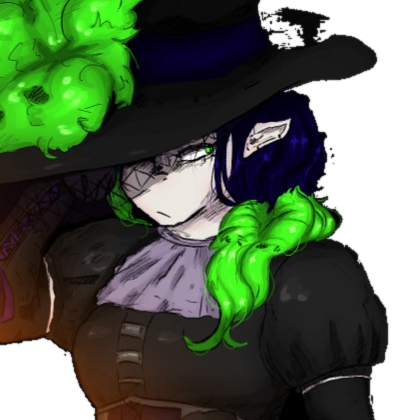
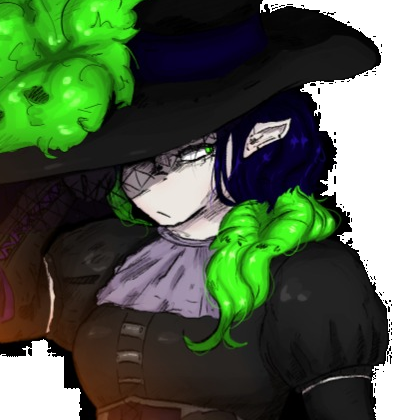
fix(personagens): eliminar 100% dos pixels semi-transparentes de Minerva e adicionar cache-buster para forcar atualizacao

diff --git a/js/mesa.js b/js/mesa.js
@@ -839,8 +839,8 @@ const MesaApp = {
       altura: '1,78m',
       raca: 'Vampira',
       arquetipo: 'Nerd',
-      imagem: 'assets/minerva.png',
-      avatar: 'assets/minerva_avatar.png',
+      imagem: 'assets/minerva.png?v=2',
+      avatar: 'assets/minerva_avatar.png?v=2',
       hp: 12, hpMax: 12,
       pe: 10, peMax: 10,
       st: 0, stMax: 40,
@@ -1161,8 +1161,8 @@ const MesaApp = {
           }
 
           if (p.token === 'N3L8' || p.slot === 2) {
-            p.imagem = 'assets/minerva.png';
-            p.avatar = 'assets/minerva_avatar.png';
+            p.imagem = 'assets/minerva.png?v=2';
+            p.avatar = 'assets/minerva_avatar.png?v=2';
           }
 
           if (p.token === 'R5K1' || p.slot === 3) {
@@ -1205,7 +1205,7 @@ const MesaApp = {
       if (!this.state.players[1]) {
         this.state.players[1] = {
           id: 3, slot: 2, token: 'N3L8', nome: 'Sanguiminerva "Minerva" Qamari Von Adams', idade: '18 anos', altura: '1,78m', raca: 'Vampira', arquetipo: 'Nerd',
-          imagem: 'assets/minerva.png', avatar: 'assets/minerva_avatar.png',
+          imagem: 'assets/minerva.png?v=2', avatar: 'assets/minerva_avatar.png?v=2',
           hp: 12, hpMax: 12, pe: 10, peMax: 10, st: 0, stMax: 40, stressPoints: 0, stressPointsMax: 6,
           atributos: { 'Saúde': 'd8', 'Vigor': 'd12', 'Força': 'd4', 'Mente': 'd16' },
           bonus: [{ origem: 'Raça (Vampira)', desc: '+d4 em testes de Mente e Visão no Escuro (5B)' }, { origem: 'Arquétipo (Nerd)', desc: '+d4 em Testes de Mente' }],

diff --git a/mesa.html b/mesa.html
@@ -8,9 +8,9 @@
   <meta http-equiv="Expires" content="0">
   <title>Mesa Virtual - Wuitalur RPG</title>
   <link rel="icon" href="assets/favicon.svg" type="image/svg+xml">
-  <link rel="stylesheet" href="css/variables.css?v=3.0.1">
-  <link rel="stylesheet" href="css/components.css?v=3.0.1">
-  <link rel="stylesheet" href="css/mesa.css?v=3.0.1">
+  <link rel="stylesheet" href="css/variables.css?v=3.0.2">
+  <link rel="stylesheet" href="css/components.css?v=3.0.2">
+  <link rel="stylesheet" href="css/mesa.css?v=3.0.2">
   <script src="https://cdn.jsdelivr.net/npm/@supabase/supabase-js@2"></script>
 </head>
 <body class="mesa-body">
@@ -468,6 +468,6 @@
       </div>
     </div>
 
-<script src="js/mesa.js?v=3.0.1"></script>
+<script src="js/mesa.js?v=3.0.2"></script>
 </body>
 </html>

diff --git a/js/wuitter.js b/js/wuitter.js
@@ -84,7 +84,7 @@ const DEFAULT_ACCOUNTS = [
     handle: '@minerva',
     bio: 'Médica de campo e estudiosa de patologias arcanas. Café sem açúcar e prontuários em dia.',
     avatarLetter: 'M',
-    avatarImage: 'assets/minerva_wuitter.png',
+    avatarImage: 'assets/minerva_wuitter.png?v=2',
     avatarColor: '#8b5cf6',
     badge: 'none',
     isMaster: false
